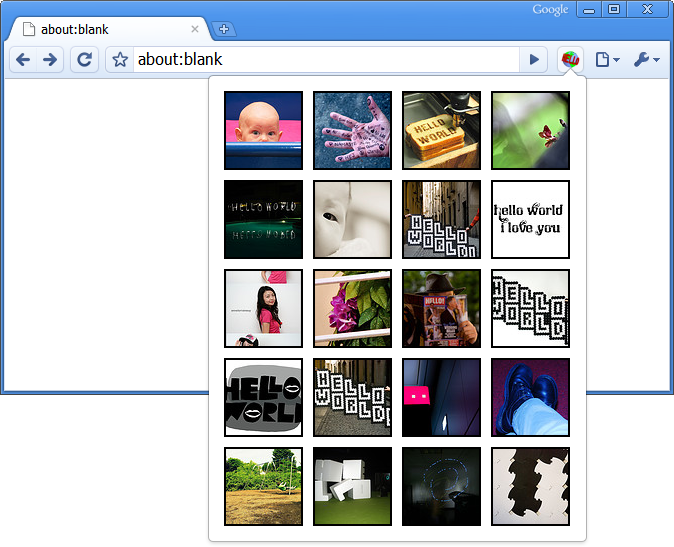
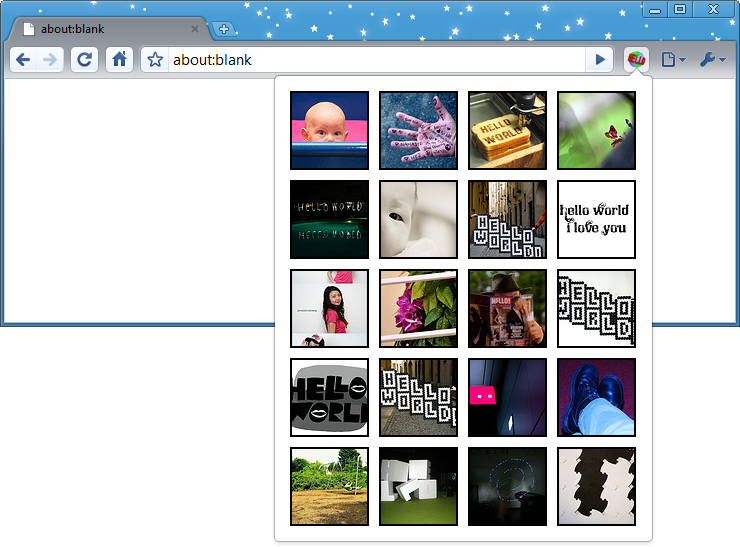
New screenshots for many of the tutorial images.
TEST=none
BUG=none
TBR=aa

Review URL: http://codereview.chromium.org/384148

git-svn-id: svn://svn.chromium.org/chrome/trunk/src@32046 0039d316-1c4b-4281-b951-d872f2087c98

Former-commit-id: f488a7be54d90a3cccf016eeeb4fd70c41eb667d

diff --git a/chrome/common/extensions/docs/tut_debugging.html b/chrome/common/extensions/docs/tut_debugging.html
@@ -295,6 +295,10 @@ to interactively debug an extension.
 To follow this tutorial, you need
 the Hello World extension that was featured in
 <a href="getstarted.html">Getting Started</a>.
+In this section,
+you'll load the extension
+and take a look at its information
+in the Extensions page.
 </p>
 
 <ol>
@@ -321,7 +325,7 @@ the Hello World extension that was featured in
   </li>
 
   <li>
-  Go to the Installed Extensions page
+  Go to the Extensions page
   (<b>chrome://extensions</b>),
   and make sure the page is in Developer mode.
   </li>
@@ -338,7 +342,7 @@ the Hello World extension that was featured in
   </li>
 
   <li>
-  Keeping an eye on the Installed Extensions page,
+  Keeping an eye on the Extensions page,
   click the Hello World extension's icon
   <img src="examples/tutorials/getstarted/icon.png" width="19" height="19" alt="" style="margin:0">.
   A popup appears,
@@ -346,14 +350,14 @@ the Hello World extension that was featured in
   under a new "Inspect active views:" heading.
 
   <p>
-  <img src="images/debug-popup.png" width="" height="" alt="">
+  <img src="images/debug-popup.png" width="726" height="547" alt="">
 
   </p></li>
 </ol>
 
 <p>
 Normally, you can inspect a page
-by clicking its link in the Installed Extensions page.
+by clicking its link in the Extensions page.
 However, clicking the link for a popup just
 makes the popup disappear.
 (This happens because a popup goes away as soon as it loses the keyboard focus.)
@@ -375,7 +379,7 @@ This feature is especially handy for debugging popups.
 <ol>
   <li>
   Get the ID for the Hello World extension
-  from the Installed Extensions page.
+  from the Extensions page.
   Example: <b>opnnhifacfpohionnikhlecfgheooenk</b>
   </li>
 
@@ -393,11 +397,11 @@ This feature is especially handy for debugging popups.
   </p>
 
   <p>
-  <img src="images/debug-popup-tab.png" width="" height="" alt="">
+  <img src="images/debug-popup-tab.png" width="726" height="356" alt="">
   </p>
 
   </li><li>
-  Back in the Installed Extensions page,
+  Back in the Extensions page,
   press <b>F5</b> or click the browser's Reload button
   to update the Hello World extension's information.
   <span class="comment">[PENDING: this seems like it should be unnecessary --
@@ -420,7 +424,7 @@ This feature is especially handy for debugging popups.
   </li>
   <li>
   Click the console button
-  <img src="images/console-button.gif" style="border:1px black solid" width="18" height="14" alt="">
+  <img src="images/console-button.gif" style="border:1px black solid; margin:0" width="18" height="14" alt="">
   (second from left, at the bottom of the Developer Tools window)
   so that you can see both the code and the console.
   </li>
@@ -469,19 +473,19 @@ as it adds images to itself.
   This section shows the current values of all variables in the current scope.
   For example, in the following screenshot
   the value of <code>i</code> is 0, and
-  <code>photos</code> is a <code>NodeList</code>
-  that contains at least one <code>Element</code>.
+  <code>photos</code> is a node list
+  that contains at least a few elements.
   (In fact, it contains 20 elements at indexes 0 through 19,
   each one representing a photo.)
 
   <p>
-  <img src="images/devtools-localvars.png" alt="" width="226" height="123">
+  <img src="images/devtools-localvars.png" alt="" width="225" height="215">
   </p>
   </li>
 
   <li>
   Click the play/pause button
-  <img src="images/play-button.gif" style="border:1px black solid" width="14" height="12" alt="">
+  <img src="images/play-button.gif" style="border:1px black solid; margin:0" width="14" height="12" alt="">
   (near the top right of the Developer Tools window)
   to go through the image-processing loop a single time.
   Each time you click that button,
@@ -492,7 +496,7 @@ as it adds images to itself.
   </li>
 
   <p>
-  <img src="images/devtools-3.png" width="723" height="270" alt="the popup page with 10 images">
+  <img src="images/devtools-3.png" width="726" height="356" alt="the popup page with 10 images">
   </p>
 
   <li>
@@ -501,7 +505,7 @@ as it adds images to itself.
   To let the page finish loading,
   click line <b>37</b> to disable the breakpoint,
   and then press play/pause
-  <img src="images/play-button.gif" style="border:1px black solid" width="14" height="12" alt="">
+  <img src="images/play-button.gif" style="border:1px black solid; margin:0" width="14" height="12" alt="">
   to continue execution.
   </li>
 
@@ -518,7 +522,7 @@ to debug your extensions:
 <ul>
   <li>
     Find your extension's ID and links to its pages in
-    the <b>Installed Extensions</b> page
+    the <b>Extensions</b> page
     (<b>chrome://extensions</b>).
   </li>
   <li>

diff --git a/chrome/common/extensions/docs/static/tut_debugging.html b/chrome/common/extensions/docs/static/tut_debugging.html
@@ -14,6 +14,10 @@ to interactively debug an extension.
 To follow this tutorial, you need
 the Hello World extension that was featured in
 <a href="getstarted.html">Getting Started</a>.
+In this section,
+you'll load the extension
+and take a look at its information
+in the Extensions page.
 </p>
 
 <ol>
@@ -42,7 +46,7 @@ the Hello World extension that was featured in
   </li>
 
   <li>
-  Go to the Installed Extensions page
+  Go to the Extensions page
   (<b>chrome://extensions</b>),
   and make sure the page is in Developer mode.
   </li>
@@ -59,7 +63,7 @@ the Hello World extension that was featured in
   </li>
 
   <li>
-  Keeping an eye on the Installed Extensions page,
+  Keeping an eye on the Extensions page,
   click the Hello World extension's icon
   <img src="examples/tutorials/getstarted/icon.png"
        width="19" height="19" alt=""
@@ -70,14 +74,14 @@ the Hello World extension that was featured in
 
   <p>
   <img src="images/debug-popup.png"
-       width="" height="" alt="" />
+       width="726" height="547" alt="" />
 
   </li>
 </ol>
 
 <p>
 Normally, you can inspect a page
-by clicking its link in the Installed Extensions page.
+by clicking its link in the Extensions page.
 However, clicking the link for a popup just
 makes the popup disappear.
 (This happens because a popup goes away as soon as it loses the keyboard focus.)
@@ -99,7 +103,7 @@ This feature is especially handy for debugging popups.
 <ol>
   <li>
   Get the ID for the Hello World extension
-  from the Installed Extensions page.
+  from the Extensions page.
   Example: <b>opnnhifacfpohionnikhlecfgheooenk</b>
   </li>
 
@@ -118,11 +122,11 @@ This feature is especially handy for debugging popups.
 
   <p>
   <img src="images/debug-popup-tab.png"
-       width="" height="" alt="" />
+       width="726" height="356" alt="" />
   </p>
 
   <li>
-  Back in the Installed Extensions page,
+  Back in the Extensions page,
   press <b>F5</b> or click the browser's Reload button
   to update the Hello World extension's information.
   <span class="comment">[PENDING: this seems like it should be unnecessary --
@@ -147,9 +151,8 @@ This feature is especially handy for debugging popups.
   <li>
   Click the console button
   <img src="images/console-button.gif"
-       style="border:1px black solid"
-       width="18" height="14" alt=""
-       style="margin:0" />
+       style="border:1px black solid; margin:0"
+       width="18" height="14" alt="" />
   (second from left, at the bottom of the Developer Tools window)
   so that you can see both the code and the console.
   </li>
@@ -200,21 +203,21 @@ as it adds images to itself.
   This section shows the current values of all variables in the current scope.
   For example, in the following screenshot
   the value of <code>i</code> is 0, and
-  <code>photos</code> is a <code>NodeList</code>
-  that contains at least one <code>Element</code>.
+  <code>photos</code> is a node list
+  that contains at least a few elements.
   (In fact, it contains 20 elements at indexes 0 through 19,
   each one representing a photo.)
 
   <p>
   <img src="images/devtools-localvars.png" alt=""
-       width="226" height="123" />
+       width="225" height="215" />
   </p>
   </li>
 
   <li>
   Click the play/pause button
   <img src="images/play-button.gif"
-       style="border:1px black solid"
+       style="border:1px black solid; margin:0"
        width="14" height="12" alt="" />
   (near the top right of the Developer Tools window)
   to go through the image-processing loop a single time.
@@ -227,7 +230,7 @@ as it adds images to itself.
 
   <p>
   <img src="images/devtools-3.png"
-       width="723" height="270"
+       width="726" height="356"
        alt="the popup page with 10 images" />
   </p>
 
@@ -238,7 +241,7 @@ as it adds images to itself.
   click line <b>37</b> to disable the breakpoint,
   and then press play/pause
   <img src="images/play-button.gif"
-       style="border:1px black solid"
+       style="border:1px black solid; margin:0"
        width="14" height="12" alt="" />
   to continue execution.
   </li>
@@ -256,7 +259,7 @@ to debug your extensions:
 <ul>
   <li>
     Find your extension's ID and links to its pages in
-    the <b>Installed Extensions</b> page
+    the <b>Extensions</b> page
     (<b>chrome://extensions</b>).
   </li>
   <li>

diff --git a/chrome/common/extensions/docs/getstarted.html b/chrome/common/extensions/docs/getstarted.html
@@ -282,7 +282,7 @@ that, when clicked, displays an automatically generated page.
 The icon and page will look something like this:
 </p>
 
-<img src="images/hello-world-small.png" width="300" height="243" alt="a window with a grid of images related to HELLO WORLD">
+<img src="images/hello-world-small.png" width="300" height="221" alt="a window with a grid of images related to HELLO WORLD">
 
 
 <h2 id="browser">Get your browser ready</h2>
@@ -377,7 +377,7 @@ as the following screenshot shows.
 </p>
 
 <p>
-<a href="images/load_after.png"><img src="images/load_after_small.png" width="300" height="194"></a>
+<a href="images/load_after.png"><img src="images/load_after_small.png" width="300" height="132"></a>
 </p>
 
 <h2 id="code">Add code to the extension</h2>
@@ -408,7 +408,7 @@ as the following screenshot shows.
 </ol>
 <p> It should look something like this:</p>
 
-<img src="images/hello-world.png" width="500" height="405" alt="a popup with a grid of images related to HELLO WORLD">
+<img src="images/hello-world.png" width="500" height="369" alt="a popup with a grid of images related to HELLO WORLD">
 
 <p> If you don't see the popup,
 try the instructions again,

diff --git a/chrome/common/extensions/docs/static/getstarted.html b/chrome/common/extensions/docs/static/getstarted.html
@@ -9,7 +9,7 @@ The icon and page will look something like this:
 </p>
 
 <img src="images/hello-world-small.png"
-  width="300" height="243"
+  width="300" height="221"
   alt="a window with a grid of images related to HELLO WORLD" />
 
 
@@ -112,7 +112,7 @@ as the following screenshot shows.
 <p>
 <a href="images/load_after.png"><img
   src="images/load_after_small.png"
-  width="300" height="194" /></a>
+  width="300" height="132" /></a>
 </p>
 
 <h2 id="code">Add code to the extension</h2>
@@ -146,7 +146,7 @@ as the following screenshot shows.
 <p> It should look something like this:</p>
 
 <img src="images/hello-world.png"
-  width="500" height="405"
+  width="500" height="369"
   alt="a popup with a grid of images related to HELLO WORLD" />
 
 <p> If you don't see the popup,
